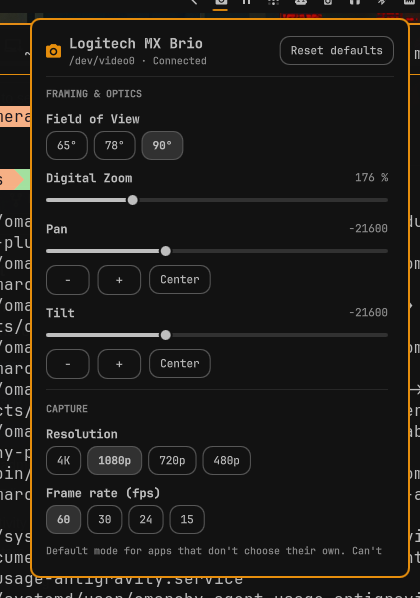
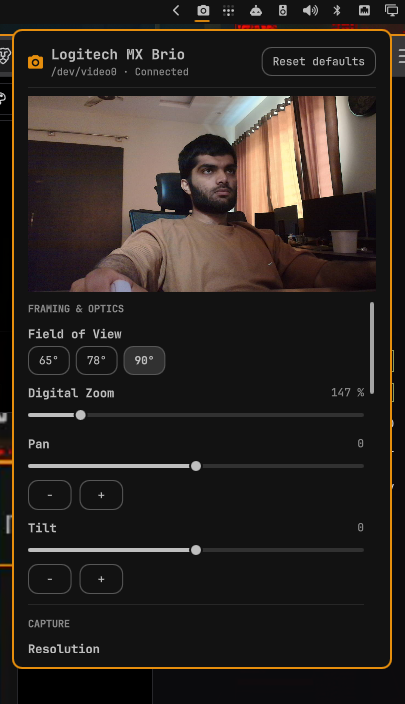
docs(marketplace): update preview image and readme screenshots

diff --git a/README.md b/README.md
@@ -4,9 +4,7 @@ Native `omarchy-shell` bar widget and settings popup providing Logi Tune-like co
 
 ## Screenshots
 
-| Framing, optics & capture mode | Color, image & utilities |
-|---|---|
-| ![Framing & Optics and Capture Mode](preview.png) | ![Color & Image and Utilities](assets/color-and-utilities.png) |
+![Camera popup](preview.png)
 
 ## Features
 
